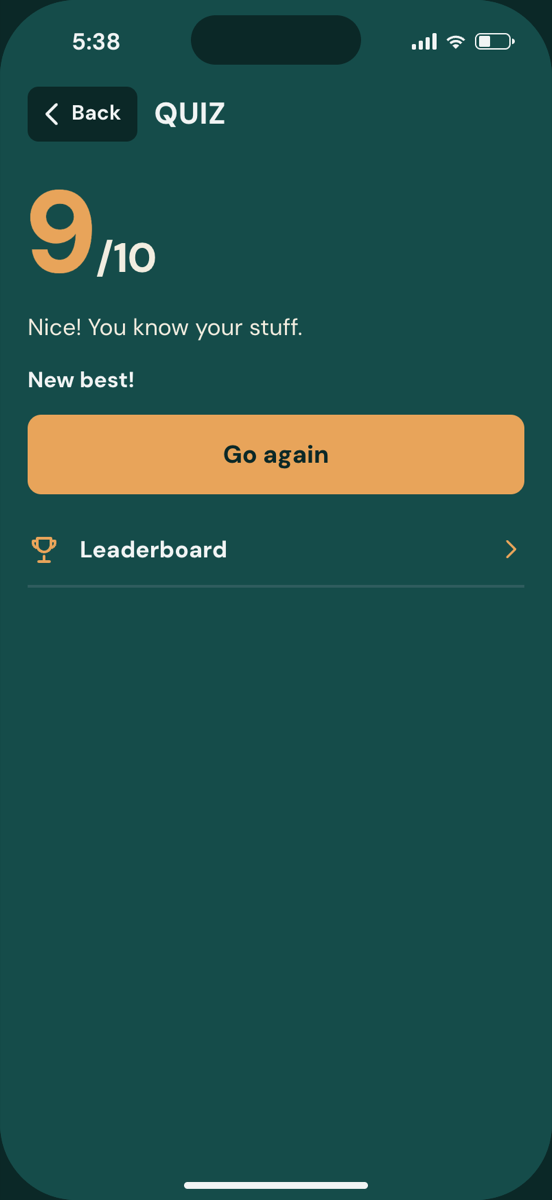
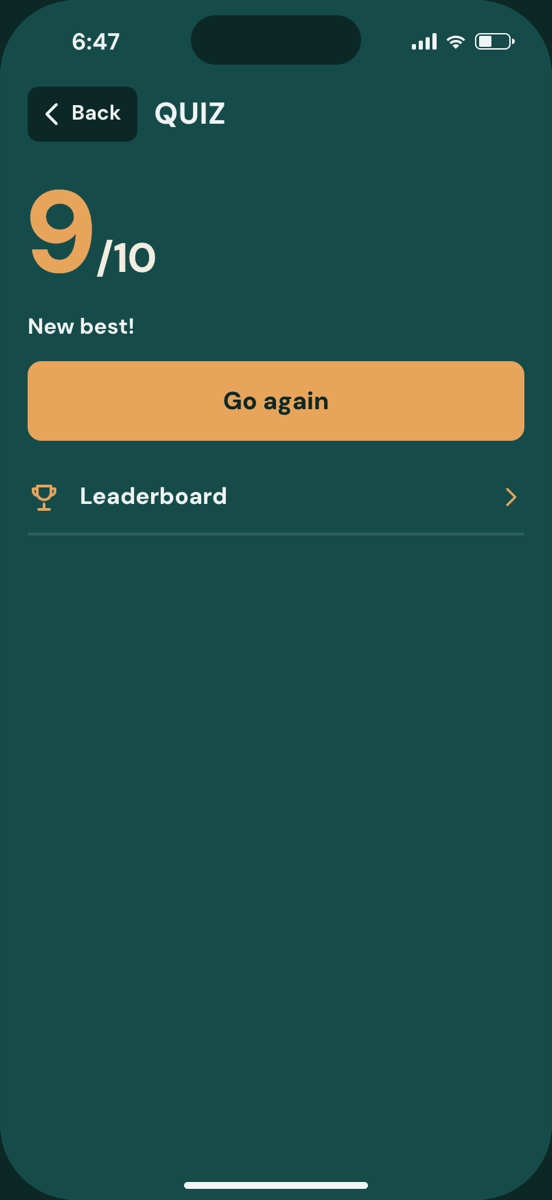
Website: remove slogan lines and pep-talk text
- Splash: removed "Cleaner air. Less trash. It's our city."
- Removed similar lines: "Quiz or game? Beat your best.", "Do it for
  real, then tick it.", "Where my facts come from.", "New order every
  time." and the quiz end pep talk ("Perfect score. Respect." etc.)
- Pop-ups are plain: "Saved." / "Name saved."
- Screenshots updated

Changed region(s): [[0.0308, 0.2467, 0.9547, 0.4933], [0.1232, 0.0308, 0.2156, 0.0617]]

diff --git a/public/index.html b/public/index.html
@@ -112,7 +112,6 @@
         <!-- IMAGE: App logo (SDG 11 style city icon) -->
         <img class="splash-logo" src="icons/icon.svg" width="112" height="112" alt="Make Cairo Clean Again logo: an orange city skyline and a leaf">
         <h1 class="splash-title" id="title-splash" tabindex="-1">Make Cairo<br>Clean Again</h1>
-        <p class="splash-sub">Cleaner air. Less trash.<br>It's our city.</p>
         <!-- BUTTON: Start — goes to Name (first time) or Home -->
         <button class="btn btn-primary btn-big" id="btnStart" type="button" aria-label="Start the app">Start</button>
       </div>
@@ -349,7 +348,6 @@
         <h1 class="screen-title" id="title-play" tabindex="-1">Play</h1>
       </header>
       <div class="screen-body">
-        <p class="lead">Quiz or game? Beat your best.</p>
         <!-- BUTTON: Quiz card — opens the Quiz -->
         <button class="play-card" type="button" data-go="quiz" aria-label="Play the quiz">
           <svg class="play-icon" aria-hidden="true"><use href="#i-quiz"/></svg>
@@ -386,7 +384,7 @@
 
         <!-- QUIZ PART: Intro -->
         <div class="quiz-part" id="quizIntro">
-          <p class="lead">10 questions about Cairo's air and trash. New order every time.</p>
+          <p class="lead">10 questions about Cairo's air and trash.</p>
           <p class="best-line">Your best: <b id="quizBestIntro">–</b></p>
           <!-- BUTTON: Start quiz -->
           <button class="btn btn-primary btn-big" id="btnQuizStart" type="button" aria-label="Start the quiz">Start</button>
@@ -414,7 +412,6 @@
         <!-- QUIZ PART: Final score -->
         <div class="quiz-part" id="quizEnd" hidden>
           <p class="end-score"><span id="quizFinal">0</span><small>/10</small></p>
-          <p class="lead" id="quizEndMsg">Nice!</p>
           <p class="best-line" id="quizEndBest">Best: –</p>
           <p class="sync-line" id="quizSync"></p>
           <!-- BUTTON: Play quiz again -->
@@ -490,7 +487,6 @@
           <p class="streak-num" id="streakNum">0</p>
           <p class="streak-text">day streak<br>Today: <span id="todayCount">0</span> of 3 done</p>
         </div>
-        <p class="lead">Do it for real, then tick it.</p>
         <!-- LIST: action rows (made in js/actions.js) -->
         <div class="action-list" id="actionList"></div>
       </div>
@@ -531,7 +527,6 @@
         <h1 class="screen-title" id="title-sources" tabindex="-1">Sources</h1>
       </header>
       <div class="screen-body">
-        <p class="lead">Where my facts come from.</p>
         <!-- LIST: source links (made in js/app.js from js/data.js) -->
         <ul class="source-list" id="sourceList"></ul>
       </div>

diff --git a/public/js/quiz.js b/public/js/quiz.js
@@ -103,11 +103,6 @@ var Quiz = (function () {
     var isBest = Store.saveBest('quiz', score);
     $('quizProgressFill').style.width = '100%';
     $('quizFinal').textContent = score;
-    $('quizEndMsg').textContent =
-      score === 10 ? 'Perfect score. Respect.' :
-      score >= 7 ? 'Nice! You know your stuff.' :
-      score >= 4 ? 'Not bad. Check Air and Waste, then go again.' :
-      'Read Air and Waste, then try again.';
     $('quizEndBest').textContent = isBest ? 'New best!' : 'Your best: ' + bestText();
     $('quizSync').textContent = '';
     showPart('quizEnd');

diff --git a/public/css/styles.css b/public/css/styles.css
@@ -160,9 +160,8 @@ a { color: var(--accent); }
   gap: 14px; padding: 0 32px 60px;
 }
 .splash-logo { width: 104px; height: 104px; border-radius: 22px; margin-bottom: 10px; }
-.splash-title { font-size: 40px; line-height: 1.02; }
+.splash-title { font-size: 40px; line-height: 1.02; margin-bottom: 18px; }
 .splash-title:focus { outline: none; }
-.splash-sub { font-size: 18px; color: var(--cream); margin-bottom: 18px; }
 
 /* ---------- NAME FORM ---------- */
 .name-form { display: flex; flex-direction: column; gap: 8px; }

diff --git a/public/sw.js b/public/sw.js
@@ -6,7 +6,7 @@
    - /api and Open-Meteo: never cached here (the app handles offline itself).
    Change VERSION when you change the app so old caches are deleted.
    ========================================================================== */
-const VERSION = 'mcca-v8';
+const VERSION = 'mcca-v9';
 const SHELL = [
   './',
   'index.html',

diff --git a/public/js/actions.js b/public/js/actions.js
@@ -68,7 +68,7 @@ var Actions = (function () {
 
     Api.sendAction(action.id).then(function (result) {
       if (result === 'sent') {
-        App.toast('Nice. Added to the Cairo total.');
+        App.toast('Saved.');
         App.refreshStats();
       } else if (result === 'queued') {
         App.toast(App.OFFLINE_MSG, 4000);

diff --git a/public/js/app.js b/public/js/app.js
@@ -92,7 +92,7 @@ var App = (function () {
     }
     var firstTime = !Store.hasName();
     Store.setName(check.firstName, check.initial);
-    toast(firstTime ? 'Hey ' + check.firstName + '!' : 'Saved. You\'re ' + check.display);
+    if (!firstTime) toast('Name saved.');
     Router.go('home', { replace: true });
   });
 
